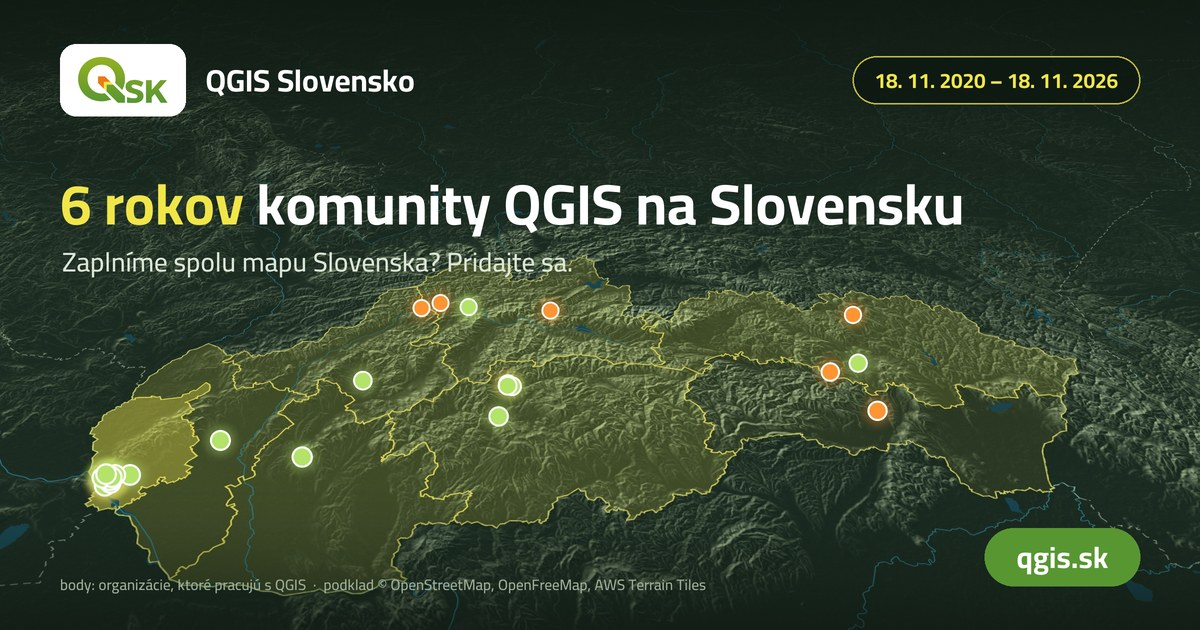
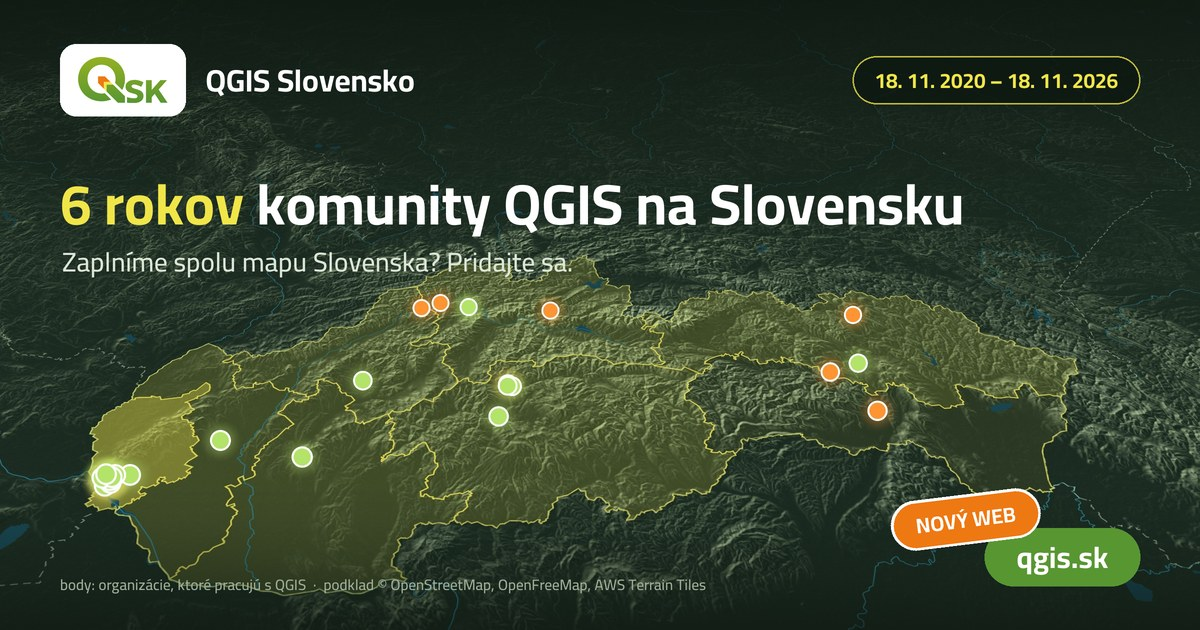
Share image: add a 'Nový web' sticker next to the address

Changed region(s): [[0.74, 0.754, 0.8633, 0.8746]]

diff --git a/index.html b/index.html
@@ -10,7 +10,7 @@
   <meta property="og:title" content="6 rokov QGIS Slovensko: zaplníme mapu Slovenska používateľmi QGIS?">
   <meta property="og:description" content="Slovenská QGIS komunita: pridajte sa na mapu, zaberie to minútu. Ľudia, firmy, školy a úrady, ktoré na Slovensku pracujú s QGIS.">
   <meta property="og:url" content="https://qgis.sk/">
-  <meta property="og:image" content="https://qgis.sk/images/og-mapa-6-rokov.jpg">
+  <meta property="og:image" content="https://qgis.sk/images/og-mapa-6-rokov.jpg?v=2">
   <meta property="og:image:width" content="1200">
   <meta property="og:image:height" content="630">
   <meta property="og:locale" content="sk_SK">

diff --git a/scripts/og_mapa.py b/scripts/og_mapa.py
@@ -19,6 +19,7 @@ VYROCIE = "--bez-vyrocia" not in sys.argv
 S = 2; W, H = 1200 * S, 630 * S
 WHITE, LEMON, GREEN, TEXT, MUTED = (255, 255, 255), (240, 230, 74), (88, 150, 50), (221, 231, 216), (159, 176, 154)
 DARK = (14, 24, 17)
+ORANGE = (238, 121, 19)
 
 def font(size, weight):
     f = ImageFont.truetype(FONT, int(size * S))
@@ -69,6 +70,15 @@ t = "qgis.sk"; f = font(30, 700); tw = d.textlength(t, font=f)
 bx1, by1 = W - 60 * S, H - 44 * S
 d.rounded_rectangle([bx1 - tw - 64 * S, by1 - 58 * S, bx1, by1], radius=29 * S, fill=GREEN)
 d.text((bx1 - 32 * S, by1 - 29 * S), t, font=f, fill=WHITE, anchor="rm")
+if VYROCIE:
+    # nálepka „Nový web“ pri adrese: oranžová, mierne pootočená, s bielym okrajom
+    t2 = "NOVÝ WEB"; f2 = font(21, 700); w2 = int(d.textlength(t2, font=f2) + 44 * S); h2 = 44 * S; ok = 3 * S
+    nal = Image.new("RGBA", (w2 + 2 * ok, h2 + 2 * ok), (0, 0, 0, 0)); dn = ImageDraw.Draw(nal)
+    dn.rounded_rectangle([0, 0, nal.width - 1, nal.height - 1], radius=nal.height // 2, fill=WHITE)
+    dn.rounded_rectangle([ok, ok, ok + w2, ok + h2], radius=h2 // 2, fill=ORANGE)
+    dn.text((nal.width / 2, nal.height / 2), t2, font=f2, fill=WHITE, anchor="mm")
+    nal = nal.rotate(7, resample=Image.BICUBIC, expand=True)
+    img.paste(nal, (int(bx1 - tw - 64 * S - nal.width * 0.62), int(by1 - 58 * S - nal.height * 0.62)), nal)
 d.text((60 * S, H - 40 * S), "body: organizácie, ktoré pracujú s QGIS  ·  podklad © OpenStreetMap, OpenFreeMap, AWS Terrain Tiles",
        font=font(15, 500), fill=MUTED, anchor="ls")
 
